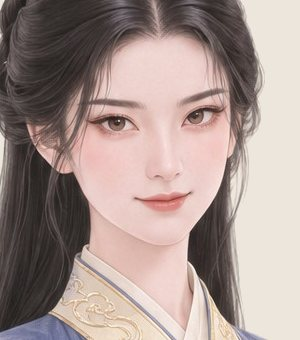
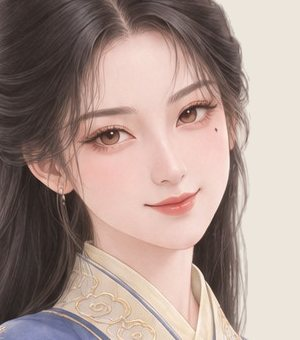
F3: owner OK (Lượt 950) s43 s45 Quyến rũ → FACE_CUTS/FACE_MAP/crops switched
Claude-Session: https://claude.ai/code/session_01PEhRbvav3JYnikHwSBBK43

diff --git a/dev/handover/reports/F3-quyenru-s43-45.md b/dev/handover/reports/F3-quyenru-s43-45.md
@@ -23,7 +23,7 @@ START_CTX ≈4 % of 1M (estimate; get_session read 0) · depth 7 (limit 8) · wo
 ## Gens (GO ROOT-64; owner "Xám là bỏ hết" → s44 waits for a non-grey sec from P3)
 - s43 gen hu2Ng4AvqL → cut lJtdYwigv9 · s45 gen s7IezvGl8e → cut cpSxQta0eP. gpt-2-6 1024x2304 2k seed 7172, ref eIyOFEidqL, folder ba4aecfe. 1 try each. Credits 2×135 + 2×3 = 276.
 - Sheet: dev/handover/review-sheets/new-faces-v4/quyenru_s43_45_F3.jpg (make_sheet_quyenru_s43_45.py): per person OLD | NEW + face zoom + root_drawn swatches, big labels (A27), s44 NEW = empty slot with a note, benchmarks s16 s33 s34.
-- FACE_CUTS / FACE_MAP / face_page crops NOT changed: the new pictures replace approved Sắc sảo ones only after the owner says so. 2 ledger lines (QUYENRU-MOVE-F3).
+- (superseded) owner OK Lượt 950 → FACE_CUTS / FACE_MAP / face crops switched for s43 + s45, group Quyến rũ; ledger OWNER-OK line.
 - Looked (face zoom, full figure on the sheet): eyes level, irises aligned, lips closed, no teeth, item held (s43 scroll in both hands, s45 sachet at chest), both root colours clear, no forehead mark, beauty mark under her LEFT eye (right side of the picture) on both (D17 OK).
 - Faults (not fixed, L777):
   1. NEW looks very close to OLD (same seed + ref + same hair/outfit/pose): same body, robe, folds; the change is mostly in the face (head tilt, half-lidded gaze, one-corner sly smile, beauty mark). The owner may find the move too subtle.

diff --git a/dev/art/face-common/LOOK_GROUPS.md b/dev/art/face-common/LOOK_GROUPS.md
@@ -88,3 +88,4 @@ File máy đọc: dev/art/face-common/OWNER_GROUPS_L686.json
 - Chủ (nguyên văn): "Bây giờ đưa sắc sảo 3 người qua bên quyến rũ là được." (KHÔNG chuyển Lạnh lùng.)
 - ROOT-60 chọn 3 người mới nhất của Sắc sảo: s43 s44 s45 → Quyến rũ (chủ có thể đổi người).
 - Sau: Sắc sảo 15 · Quyến rũ 18 · Lạnh lùng 15 · Kiêu kỳ 15 · Đoan trang 12 · Dịu dàng 11 = 86.
+- Lượt 949/950 (F3): owner "Quyến rũ ok" → s43 + s45 NEW Quyến rũ faces (make_quyenru_s43_45.py → sNN.qr.FULL.txt, root_drawn colours L27): s43 cut lJtdYwigv9 (was Sắc sảo 79foGqDJAL), s45 cut cpSxQta0eP (was kseWyhP16B). s44 waits for a non-grey sec colour (owner "Xám là bỏ hết"). Sheet: dev/handover/review-sheets/new-faces-v4/quyenru_s43_45_F3.jpg.
